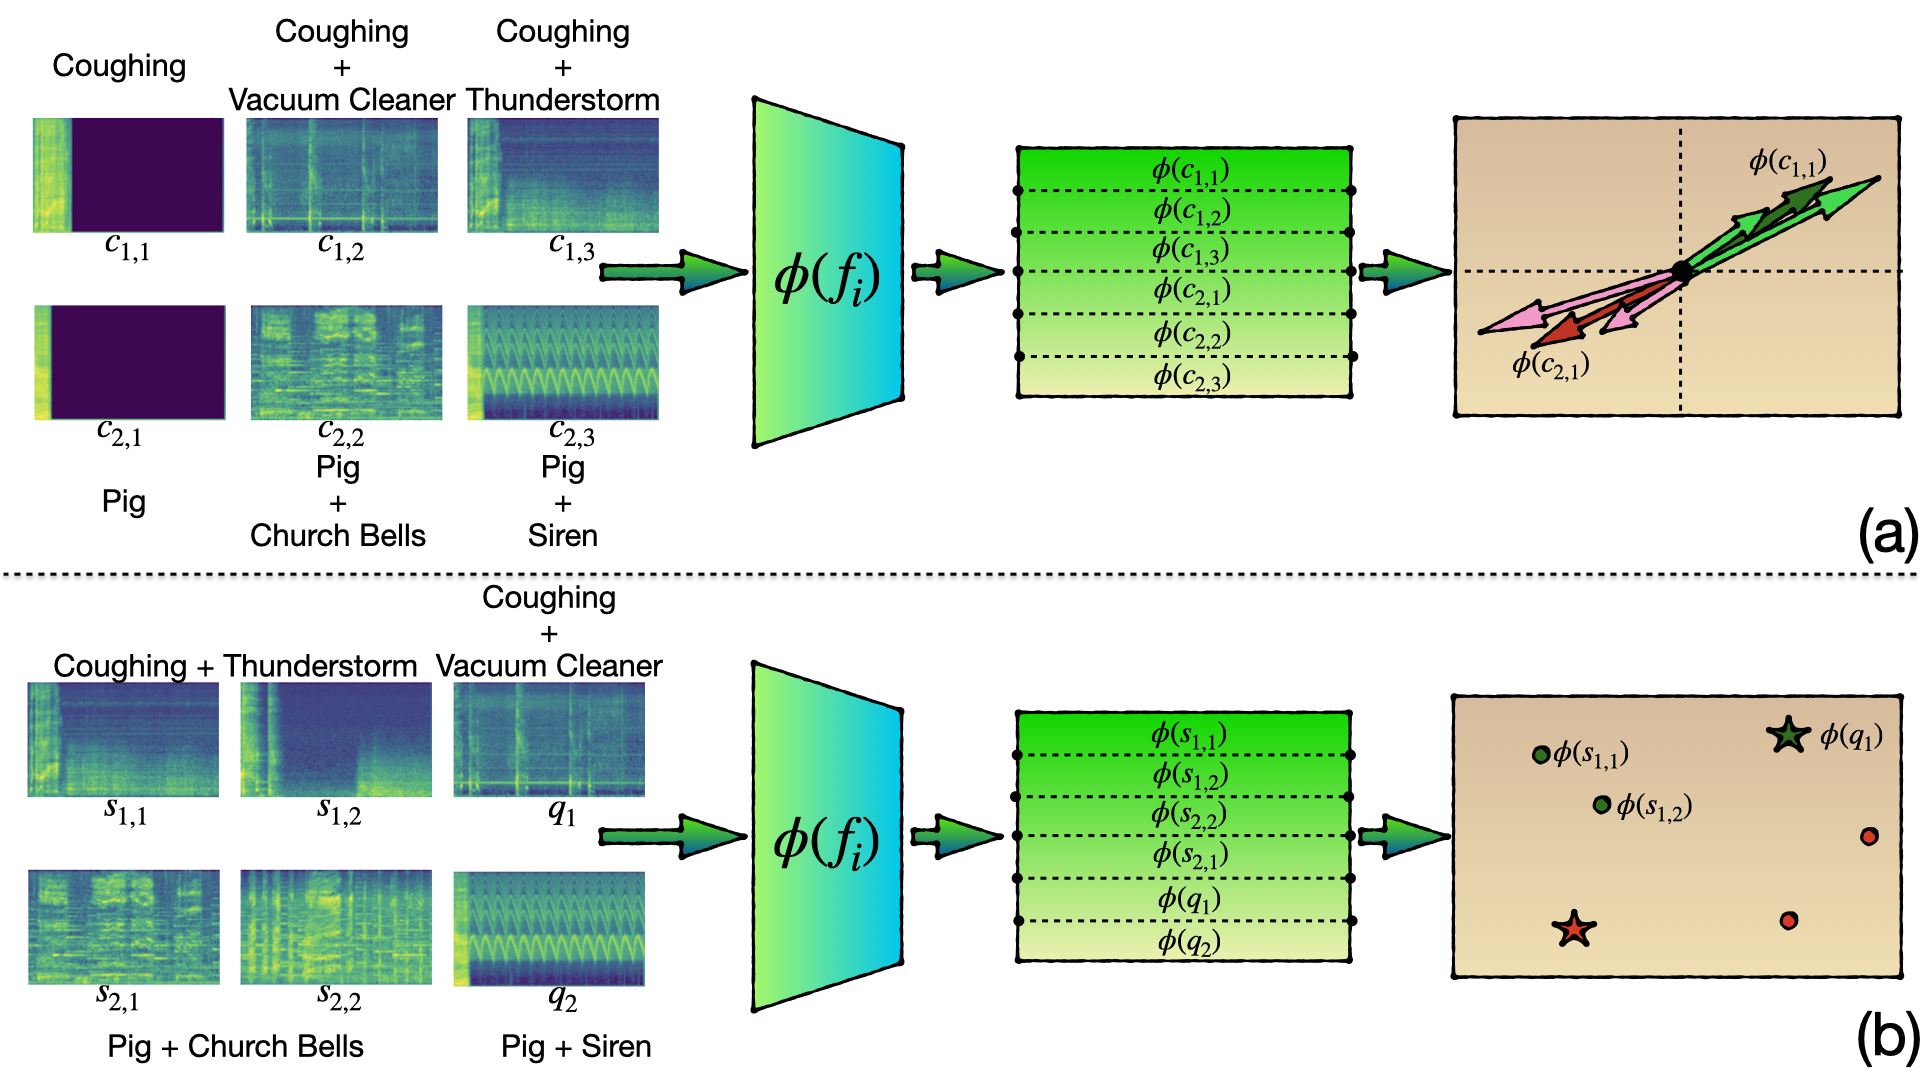
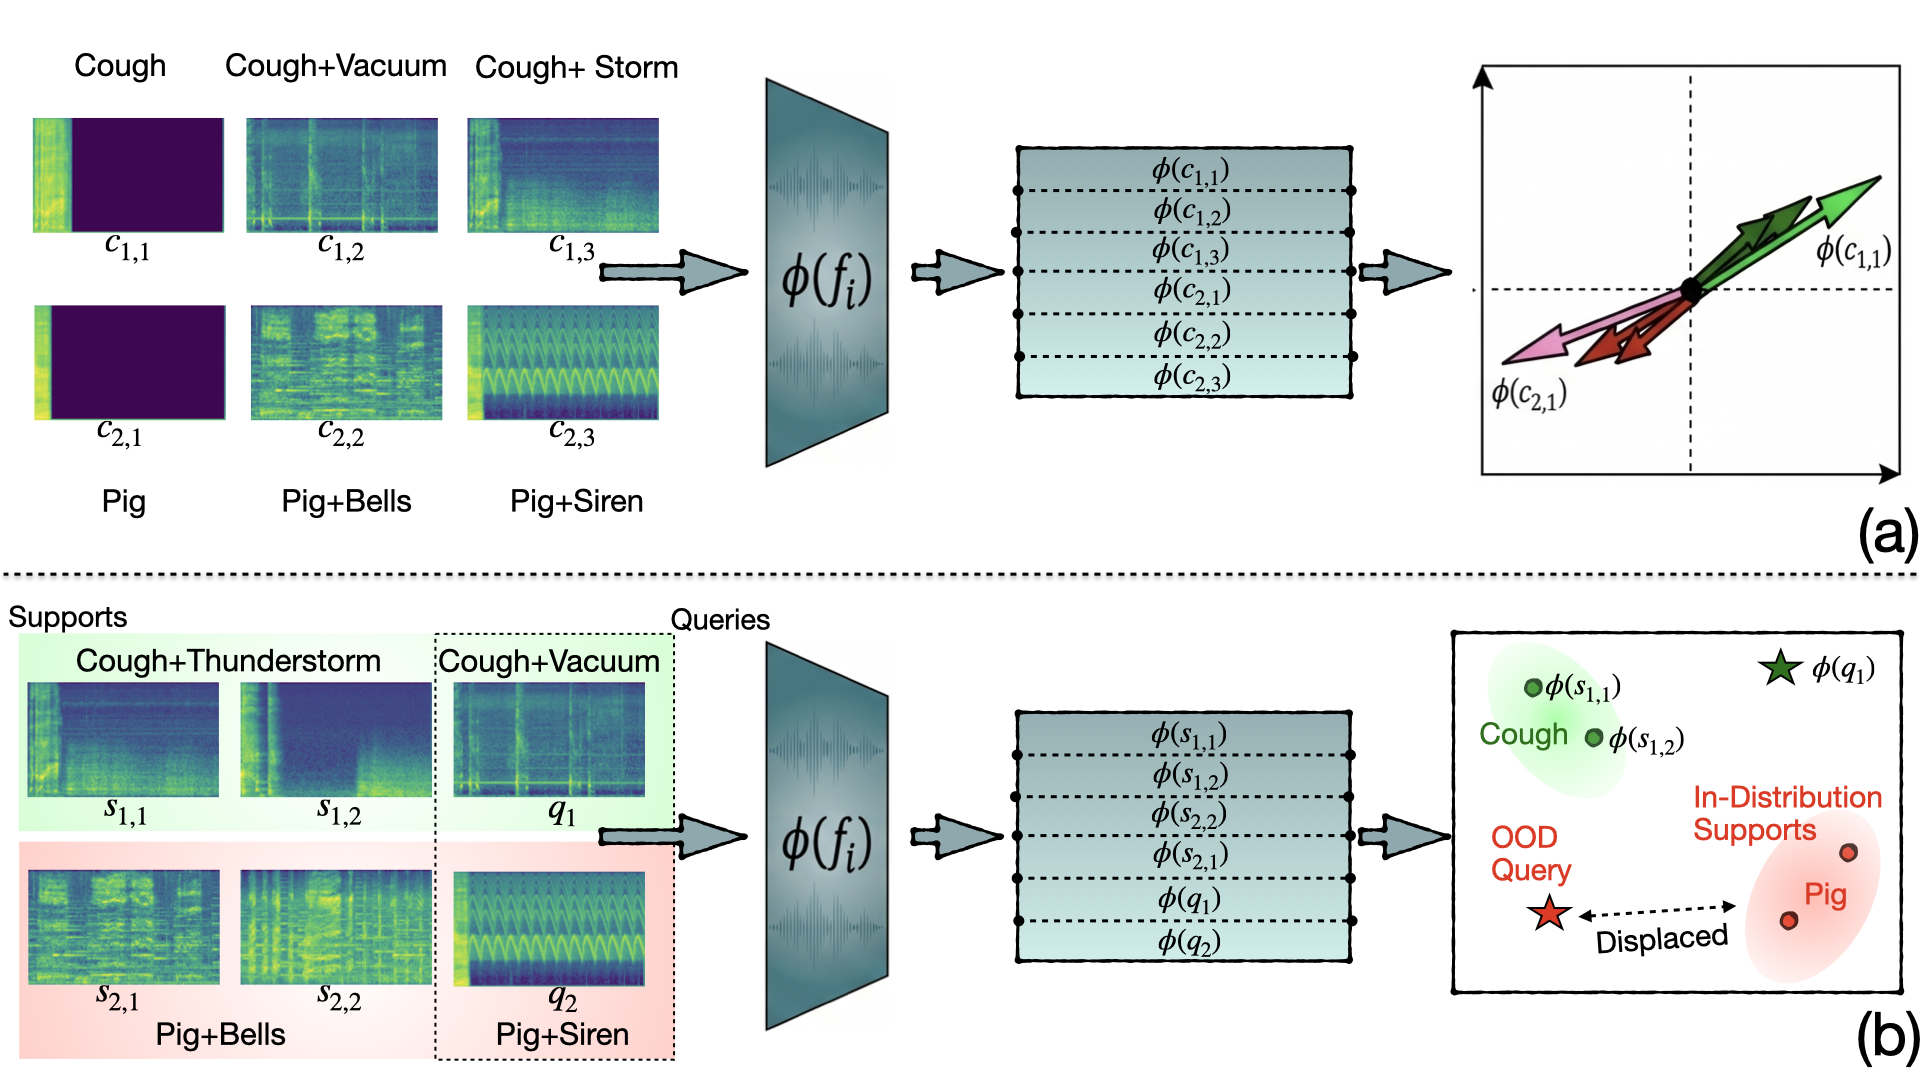
dataset download instructions

diff --git a/README.md b/README.md
@@ -4,17 +4,11 @@ Official implementation for:
 
 **SpurAudio: A Benchmark for Studying Shortcut Learning in Few-Shot Audio Classification**
 
-Authors: Anonymous
+Authors: Anonymous (under review)
 
-<p align="center">
-	<a href="https://libfewshot-en.readthedocs.io/en/latest/">
-		<img src="./images/logo.png" alt="LibFewShot logo" width="36%" />
-	</a>
-</p>
+![SpurAudio logo](images/logo.png)
 
-<p align="center">
-	<img src="./images/illustration_iid_vs_ood.png" alt="IID vs OOD illustration" width="72%" />
-</p>
+![IID vs OOD illustration](images/illustration_iid_vs_ood.png)
 
 ---
 
@@ -23,8 +17,73 @@ Authors: Anonymous
 This repository extends LibFewShot for few-shot **audio** classification experiments on SpurAudio, with support for:
 
 - IID and OOD episode evaluation.
-- Multiple few-shot paradigms (fine-tuning, meta-learning, metric-learning).
-- Backbone and classifier modular configuration through YAML.
+- Multiple few-shot paradigms (fine-tuning, meta-learning, metric-learning, transductive).
+- Backbone and classifier modular configurations.
+
+---
+
+## SpurAudio Dataset Layout
+
+### Top-level directory layout
+
+```
+LibFewShot/
+├── SpurAudio_dataset/            # per-class spectrogram tensors (.npy)
+│   ├── air_conditioner/
+│   ├── blender/
+│   ├── cat/
+│   ├── dog+dog_bark/
+│   ├── …                         # 38 class folders total
+│   └── laughter/
+├── Auxiliary/                    # normalization stats + class-split definition
+│   ├── Clean_Mean_Std.npy
+│   ├── Spurious_Mean_Std.npy
+│   └── SpurAudio_paper_splits.npy
+├── data/
+│   └── fewshot/
+├── config/                       # YAML configs
+├── libfewshot_core/              # framework source
+└── results/                      # training outputs
+```
+
+### Per-class file naming convention
+
+Each `.npy` inside a class folder is a spectrogram tensor for one sample. Filenames encode the mixing of two classes:
+
+```
+SpurAudio_dataset/cat/cat-crying_baby_alpha=0.00013126751582603902_loop=1_id=37.npy
+                       │   │           │                                  │       │
+                       │   │           │                                  │       └── sample id
+                       │   │           │                                  └── loop index
+                       │   │           └── mixing coefficient (α) between foreground and background
+                       │   └── background class
+                       └── foreground class
+```
+
+The directory the file lives in is the **foreground** class (the label); the second class in the filename is the **background** spurious co-occurrence.
+
+### Class splits file
+
+`Auxiliary/SpurAudio_paper_splits.npy` is a NumPy array (loaded with `np.load(..., allow_pickle=True)`) whose three top-level entries are the class-name lists for each split:
+
+- index `0` → list of **train** class names
+- index `1` → list of **validation** class names
+- index `2` → list of **test** class names
+
+Each entry is a list of strings matching subfolder names under `SpurAudio_dataset/` (e.g. `"cat"`, `"dog+dog_bark"`). To replicate the paper splits, leave this file untouched; to define your own splits, write a 3-element object array in the same `[train, val, test]` order and point `class_per_split` in your YAML at it.
+
+### Downloading the dataset
+
+In the meantime, you can download the SpurAudio dataset (with its splits) from the anonymous Hugging Face repository: [`spuraudioNips/SpurAudio-neurips-anonym`](https://huggingface.co/datasets/spuraudioNips/SpurAudio-neurips-anonym).
+
+To run the pipeline on it:
+
+1. Unpack all audio files into a single flat directory, e.g. `all_audios_unpacked/`.
+2. Run the ESC-50 full-stack script on that folder to produce the `SpurAudio_dataset/` spectrogram layout shown above.
+
+### Generating the dataset (and using a custom one)
+
+The SpurAudio spectrograms are produced from ESC-50 by the ESC-50 full-stack script. If you want to use a different audio dataset, run that same script on your dataset to produce a `SpurAudio_dataset/`-shaped folder — i.e. one subfolder per foreground class, with `.npy` filenames following the `{foreground}-{background}_alpha={float}_loop={int}_id={int}.npy` schema shown above. The rest of the pipeline (configs, dataloaders, normalization) expects exactly this format.
 
 ---
 
